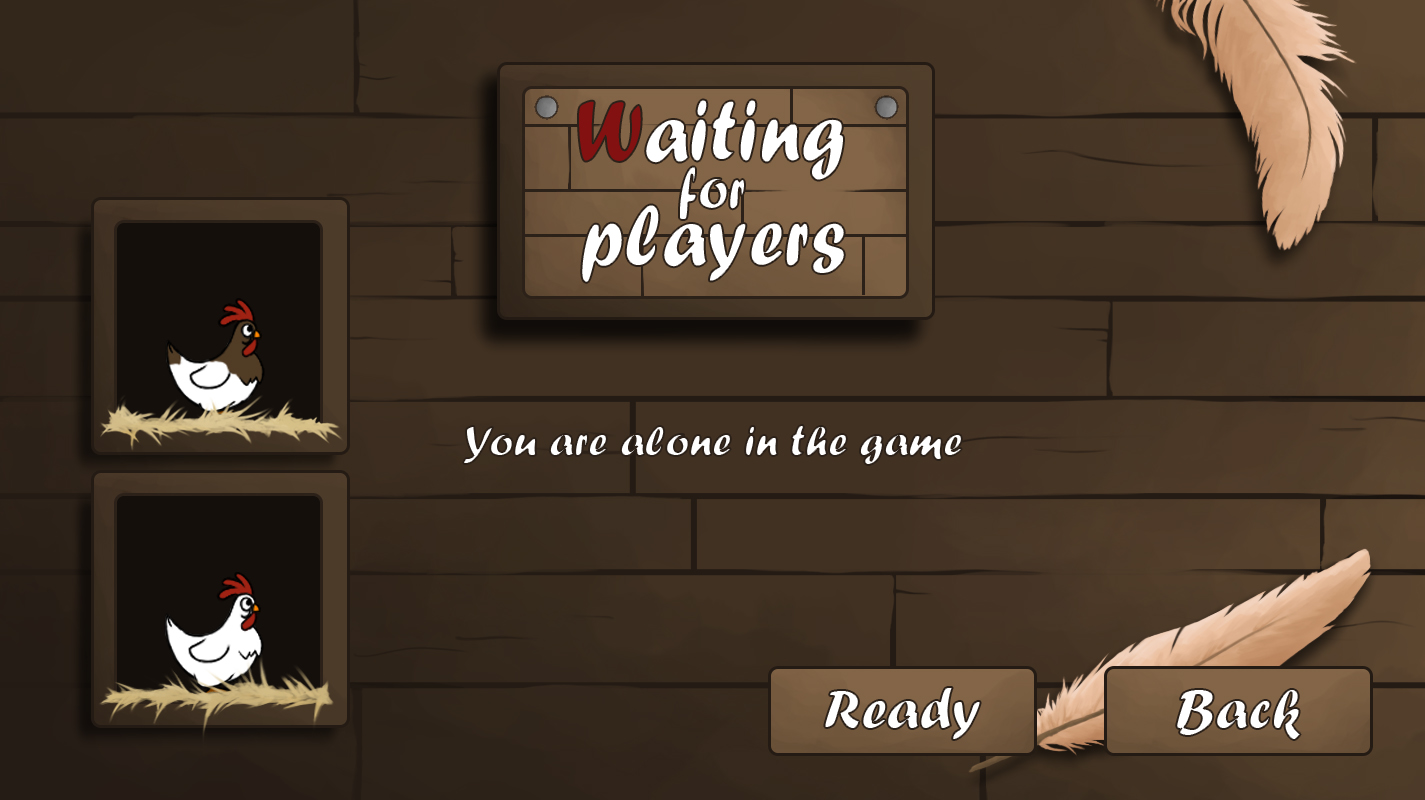
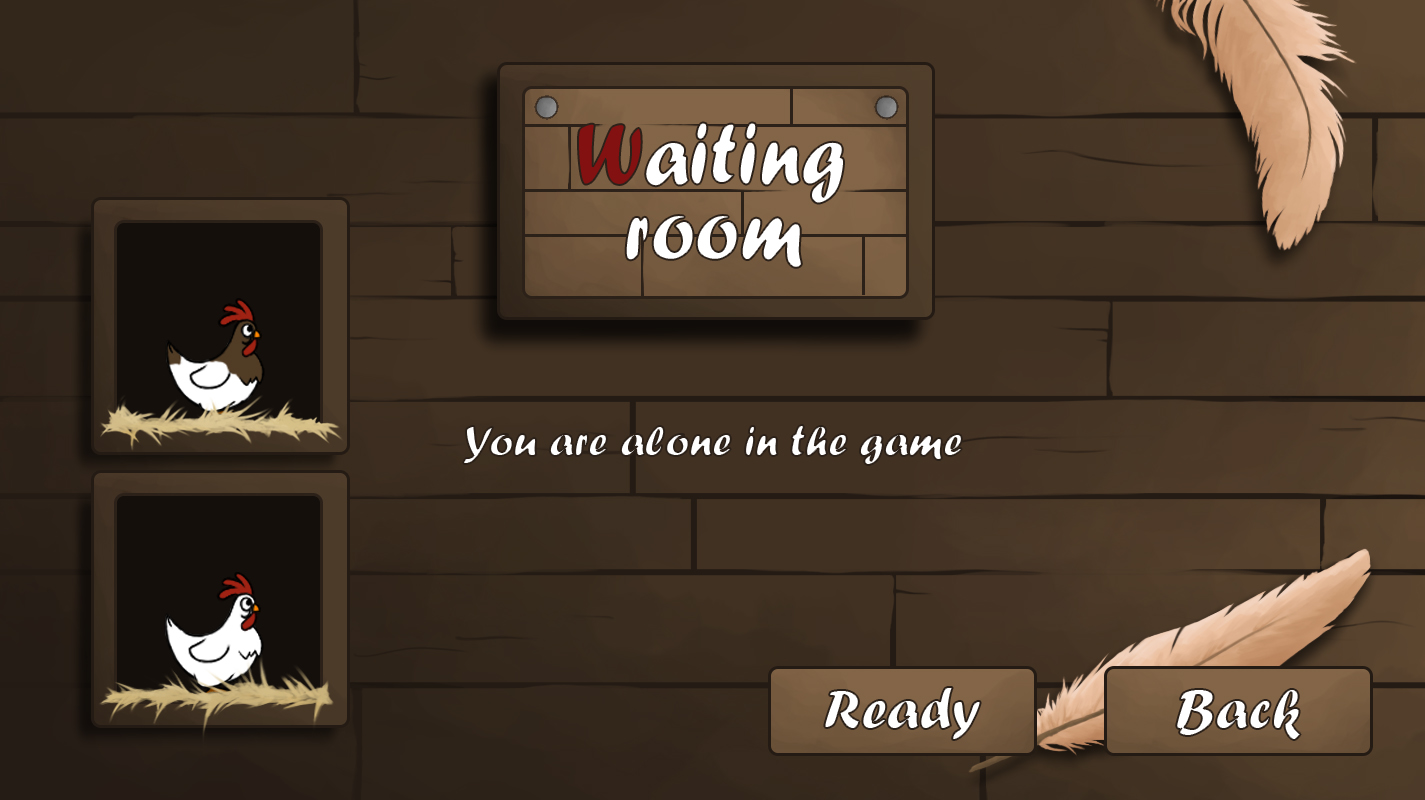
fixes handler

Changed region(s): [[0.4014, 0.125, 0.6175, 0.3438]]

diff --git a/FASE4/FarmAttack/src/main/resources/static/JS/ReadyMenu.js b/FASE4/FarmAttack/src/main/resources/static/JS/ReadyMenu.js
@@ -45,9 +45,9 @@ class ReadyMenu extends Phaser.Scene{
         
         musicGameplay = this.sound.add('levelMusic', config);
         this.clickSound = this.sound.add('clickSound', this.EffectsConfig());
+        
 
-
-		this.background = this.add.image(gameWidth/2,gameHeight/2,"waitingBackground"); 
+		this.background = this.add.image(gameWidth/2,gameHeight/2,"readyBackground"); 
         
 	    //Pre carga Nivel 1
 	    this.preLevel1 = this.add.image(gameWidth/2, gameHeight/2, 'level1');
@@ -55,17 +55,17 @@ class ReadyMenu extends Phaser.Scene{
 	    this.preLevel1.alpha = 0;
 	    
         //PLAY    
-        this.playButton = this.add.image(gameWidth*7/16, gameHeight*8/16, 'playButton');
-        this.playButton.setScale(2.5/3);
-        this.playButtonSel = this.add.image(gameWidth*7/16, gameHeight*8/16, 'playButtonSel');
-        this.playButtonSel.setScale(2.5/3);
+        this.readyButton = this.add.image(gameWidth*7/16, gameHeight*11/16, 'readyButton');
+        this.readyButton.setScale(2.5/3);
+        this.readyButtonSel = this.add.image(gameWidth*7/16, gameHeight*11/16, 'readyButtonSel');
+        this.readyButtonSel.setScale(2.5/3);
         
-        this.playButton.setVisible(false);
-        this.playButtonSel.setVisible(false);
+        this.readyButton.setVisible(false);
+        this.readyButtonSel.setVisible(false);
 
-        this.playButton.on('pointerover', function (pointer) {this.playButtonSel.setVisible(true);}, this);
-        this.playButton.on('pointerout', function (pointer) {this.playButtonSel.setVisible(false);}, this);
-        this.playButton.setInteractive({ useHandCursor: true}).on('pointerdown', () => /*this.PlayGame()*/ connection.send(JSON.stringify({type: "startGame"})));
+        this.readyButton.on('pointerover', function (pointer) {this.readyButtonSel.setVisible(true);}, this);
+        this.readyButton.on('pointerout', function (pointer) {this.readyButtonSel.setVisible(false);}, this);
+        this.readyButton.setInteractive({ useHandCursor: true}).on('pointerdown', () => /*this.PlayGame()*/ connection.send(JSON.stringify({type: "startGame"})));
         
         /*if ((fullLobby == true) ){//}|| (playerId == "1")){
 	    	 console.log("putas todas");
@@ -88,15 +88,15 @@ class ReadyMenu extends Phaser.Scene{
         }
         */
         //BACK
-        this.readyButton = this.add.image(gameWidth*10/16, gameHeight*8/16, 'readyButton');
-        this.readyButton.setScale(2.5/3);
-        this.readyButtonSel = this.add.image(gameWidth*10/16, gameHeight*8/16, 'readyButtonSel');
-        this.readyButtonSel.setScale(2.5/3);
-        this.readyButtonSel.setVisible(false);
+        this.quitButton = this.add.image(gameWidth*10/16, gameHeight*11/16, 'backButton');
+        this.quitButton.setScale(2.5/3);
+        this.quitButtonSel = this.add.image(gameWidth*10/16, gameHeight*11/16, 'backButtonSel');
+        this.quitButtonSel.setScale(2.5/3);
+        this.quitButtonSel.setVisible(false);
 
-        this.readyButton.on('pointerover', function (pointer) {this.readyButtonSel.setVisible(true);}, this);
-        this.readyButton.on('pointerout', function (pointer) {this.readyButtonSel.setVisible(false);}, this);
-        this.readyButton.setInteractive({ useHandCursor: true}).on('pointerdown', () => (connection.send(JSON.stringify({ type: "leave"})), leaved = true)/*this.BackInit()*/);
+        this.quitButton.on('pointerover', function (pointer) {this.quitButtonSel.setVisible(true);}, this);
+        this.quitButton.on('pointerout', function (pointer) {this.quitButtonSel.setVisible(false);}, this);
+        this.quitButton.setInteractive({ useHandCursor: true}).on('pointerdown', () => (connection.send(JSON.stringify({ type: "leave"})), leaved = true)/*this.BackInit()*/);
         
 	    //SKIP BUTTON
 	    this.skipButtonL1 = this.add.image(gameWidth*13.9/16, gameHeight*14.23/16, 'skipButton');
@@ -164,6 +164,11 @@ class ReadyMenu extends Phaser.Scene{
             	//this.PlayGame();
             	//skipTutorial = true;
             }
+            
+            if(data.type == "fullroom"){
+            	console.log("SALA LLENA");
+            	fullroom = true;
+            }
                         
         }// Fin onmessage
 		
@@ -180,28 +185,6 @@ class ReadyMenu extends Phaser.Scene{
 
 
 	update(){
-		//alive();
-		//this.updateUsersConected();
-		
-		/*if (playerId == "2"){
-			console.log("Holaaaaa 2");
-			this.playButton.setVisible(true);
-		}*/
-		
-		if (playerId == 2){
-			//console.log("Holaaaaa 2");
-			this.playButton.setVisible(true);
-		}
-		
-		if (playerId == 1){
-        	
-        	//ACTIVAR FONDO QUE PONE WAITING FOR PLAYERS
-        	
-        }
-        else
-        {
-        	//ACTIVAR FONDO QUE PONE READY TO PLAY!!
-        }
 		
 		if (startGame == true){
 			this.PlayGame();
@@ -226,6 +209,13 @@ class ReadyMenu extends Phaser.Scene{
 		if(namesreceived == true){
 			this.textusers.innerHTML = names;
 			namesreceived = false;
+		}
+		
+		if(fullroom == true)
+		{
+			this.background.setTexture("waitingBackground"); 
+			this.readyButton.setVisible(true);
+			fullroom = false;
 		}
 	}
 
@@ -258,8 +248,8 @@ class ReadyMenu extends Phaser.Scene{
         this.clickSound.play();
 
         //this.backgroundMM.setVisible(false);
-        this.playButton.setVisible(false);
-        this.playButtonSel.setVisible(false);
+        this.quitButton.setVisible(false);
+        this.quitButtonSel.setVisible(false);
         this.readyButton.setVisible(false);
         this.readyButtonSel.setVisible(false);
         //this.creditsButton.setVisible(false);

diff --git a/FASE4/FarmAttack/target/classes/static/JS/ReadyMenu.js b/FASE4/FarmAttack/target/classes/static/JS/ReadyMenu.js
@@ -45,9 +45,9 @@ class ReadyMenu extends Phaser.Scene{
         
         musicGameplay = this.sound.add('levelMusic', config);
         this.clickSound = this.sound.add('clickSound', this.EffectsConfig());
+        
 
-
-		this.background = this.add.image(gameWidth/2,gameHeight/2,"waitingBackground"); 
+		this.background = this.add.image(gameWidth/2,gameHeight/2,"readyBackground"); 
         
 	    //Pre carga Nivel 1
 	    this.preLevel1 = this.add.image(gameWidth/2, gameHeight/2, 'level1');
@@ -55,17 +55,17 @@ class ReadyMenu extends Phaser.Scene{
 	    this.preLevel1.alpha = 0;
 	    
         //PLAY    
-        this.playButton = this.add.image(gameWidth*7/16, gameHeight*8/16, 'playButton');
-        this.playButton.setScale(2.5/3);
-        this.playButtonSel = this.add.image(gameWidth*7/16, gameHeight*8/16, 'playButtonSel');
-        this.playButtonSel.setScale(2.5/3);
+        this.readyButton = this.add.image(gameWidth*7/16, gameHeight*11/16, 'readyButton');
+        this.readyButton.setScale(2.5/3);
+        this.readyButtonSel = this.add.image(gameWidth*7/16, gameHeight*11/16, 'readyButtonSel');
+        this.readyButtonSel.setScale(2.5/3);
         
-        this.playButton.setVisible(false);
-        this.playButtonSel.setVisible(false);
+        this.readyButton.setVisible(false);
+        this.readyButtonSel.setVisible(false);
 
-        this.playButton.on('pointerover', function (pointer) {this.playButtonSel.setVisible(true);}, this);
-        this.playButton.on('pointerout', function (pointer) {this.playButtonSel.setVisible(false);}, this);
-        this.playButton.setInteractive({ useHandCursor: true}).on('pointerdown', () => /*this.PlayGame()*/ connection.send(JSON.stringify({type: "startGame"})));
+        this.readyButton.on('pointerover', function (pointer) {this.readyButtonSel.setVisible(true);}, this);
+        this.readyButton.on('pointerout', function (pointer) {this.readyButtonSel.setVisible(false);}, this);
+        this.readyButton.setInteractive({ useHandCursor: true}).on('pointerdown', () => /*this.PlayGame()*/ connection.send(JSON.stringify({type: "startGame"})));
         
         /*if ((fullLobby == true) ){//}|| (playerId == "1")){
 	    	 console.log("putas todas");
@@ -88,15 +88,15 @@ class ReadyMenu extends Phaser.Scene{
         }
         */
         //BACK
-        this.readyButton = this.add.image(gameWidth*10/16, gameHeight*8/16, 'readyButton');
-        this.readyButton.setScale(2.5/3);
-        this.readyButtonSel = this.add.image(gameWidth*10/16, gameHeight*8/16, 'readyButtonSel');
-        this.readyButtonSel.setScale(2.5/3);
-        this.readyButtonSel.setVisible(false);
+        this.quitButton = this.add.image(gameWidth*10/16, gameHeight*11/16, 'backButton');
+        this.quitButton.setScale(2.5/3);
+        this.quitButtonSel = this.add.image(gameWidth*10/16, gameHeight*11/16, 'backButtonSel');
+        this.quitButtonSel.setScale(2.5/3);
+        this.quitButtonSel.setVisible(false);
 
-        this.readyButton.on('pointerover', function (pointer) {this.readyButtonSel.setVisible(true);}, this);
-        this.readyButton.on('pointerout', function (pointer) {this.readyButtonSel.setVisible(false);}, this);
-        this.readyButton.setInteractive({ useHandCursor: true}).on('pointerdown', () => (connection.send(JSON.stringify({ type: "leave"})), leaved = true)/*this.BackInit()*/);
+        this.quitButton.on('pointerover', function (pointer) {this.quitButtonSel.setVisible(true);}, this);
+        this.quitButton.on('pointerout', function (pointer) {this.quitButtonSel.setVisible(false);}, this);
+        this.quitButton.setInteractive({ useHandCursor: true}).on('pointerdown', () => (connection.send(JSON.stringify({ type: "leave"})), leaved = true)/*this.BackInit()*/);
         
 	    //SKIP BUTTON
 	    this.skipButtonL1 = this.add.image(gameWidth*13.9/16, gameHeight*14.23/16, 'skipButton');
@@ -164,6 +164,11 @@ class ReadyMenu extends Phaser.Scene{
             	//this.PlayGame();
             	//skipTutorial = true;
             }
+            
+            if(data.type == "fullroom"){
+            	console.log("SALA LLENA");
+            	fullroom = true;
+            }
                         
         }// Fin onmessage
 		
@@ -180,28 +185,6 @@ class ReadyMenu extends Phaser.Scene{
 
 
 	update(){
-		//alive();
-		//this.updateUsersConected();
-		
-		/*if (playerId == "2"){
-			console.log("Holaaaaa 2");
-			this.playButton.setVisible(true);
-		}*/
-		
-		if (playerId == 2){
-			//console.log("Holaaaaa 2");
-			this.playButton.setVisible(true);
-		}
-		
-		if (playerId == 1){
-        	
-        	//ACTIVAR FONDO QUE PONE WAITING FOR PLAYERS
-        	
-        }
-        else
-        {
-        	//ACTIVAR FONDO QUE PONE READY TO PLAY!!
-        }
 		
 		if (startGame == true){
 			this.PlayGame();
@@ -226,6 +209,13 @@ class ReadyMenu extends Phaser.Scene{
 		if(namesreceived == true){
 			this.textusers.innerHTML = names;
 			namesreceived = false;
+		}
+		
+		if(fullroom == true)
+		{
+			this.background.setTexture("waitingBackground"); 
+			this.readyButton.setVisible(true);
+			fullroom = false;
 		}
 	}
 
@@ -258,8 +248,8 @@ class ReadyMenu extends Phaser.Scene{
         this.clickSound.play();
 
         //this.backgroundMM.setVisible(false);
-        this.playButton.setVisible(false);
-        this.playButtonSel.setVisible(false);
+        this.quitButton.setVisible(false);
+        this.quitButtonSel.setVisible(false);
         this.readyButton.setVisible(false);
         this.readyButtonSel.setVisible(false);
         //this.creditsButton.setVisible(false);

diff --git a/FASE4/FarmAttack/src/main/resources/static/JS/PreloadMenu.js b/FASE4/FarmAttack/src/main/resources/static/JS/PreloadMenu.js
@@ -77,9 +77,11 @@ class PreloadMenu extends Phaser.Scene{
     this.load.image('tutorialButtonSel', '../ASSETS/Interface/MainMenu/Buttons/tutorial_button_selected.png');
     
     //MULTIPLAYER
+    this.load.image('aloneBackground', '../ASSETS/Interface/WaitingRoomMenu/you_are_alone_background.jpg');
     this.load.image('waitingBackground', '../ASSETS/Interface/WaitingRoomMenu/waiting_room_menu_background.jpg');
-    this.load.image('readyButton', '../ASSETS/Interface/WaitingRoomMenu/ReadyButton/ready_button_selected.png');
-    this.load.image('readyButtonSel', '../ASSETS/Interface/WaitingRoomMenu/ReadyButton/ready_button.png');
+    this.load.image('readyBackground', '../ASSETS/Interface/WaitingRoomMenu/waiting_for_players_background.jpg');
+    this.load.image('readyButtonSel', '../ASSETS/Interface/WaitingRoomMenu/ReadyButton/ready_button_selected.png');
+    this.load.image('readyButton', '../ASSETS/Interface/WaitingRoomMenu/ReadyButton/ready_button.png');
     
     //CHAT
     this.load.image('chatButton', '../ASSETS/Interface/MainMenu/Buttons/chat_button.png');

diff --git a/FASE4/FarmAttack/target/classes/static/JS/PreloadMenu.js b/FASE4/FarmAttack/target/classes/static/JS/PreloadMenu.js
@@ -77,9 +77,11 @@ class PreloadMenu extends Phaser.Scene{
     this.load.image('tutorialButtonSel', '../ASSETS/Interface/MainMenu/Buttons/tutorial_button_selected.png');
     
     //MULTIPLAYER
+    this.load.image('aloneBackground', '../ASSETS/Interface/WaitingRoomMenu/you_are_alone_background.jpg');
     this.load.image('waitingBackground', '../ASSETS/Interface/WaitingRoomMenu/waiting_room_menu_background.jpg');
-    this.load.image('readyButton', '../ASSETS/Interface/WaitingRoomMenu/ReadyButton/ready_button_selected.png');
-    this.load.image('readyButtonSel', '../ASSETS/Interface/WaitingRoomMenu/ReadyButton/ready_button.png');
+    this.load.image('readyBackground', '../ASSETS/Interface/WaitingRoomMenu/waiting_for_players_background.jpg');
+    this.load.image('readyButtonSel', '../ASSETS/Interface/WaitingRoomMenu/ReadyButton/ready_button_selected.png');
+    this.load.image('readyButton', '../ASSETS/Interface/WaitingRoomMenu/ReadyButton/ready_button.png');
     
     //CHAT
     this.load.image('chatButton', '../ASSETS/Interface/MainMenu/Buttons/chat_button.png');

diff --git a/FASE4/FarmAttack/src/main/resources/static/JS/AloneInGame.js b/FASE4/FarmAttack/src/main/resources/static/JS/AloneInGame.js
@@ -12,7 +12,7 @@ class AloneInGame extends Phaser.Scene{
     this.clickSound = this.sound.add('clickSound', this.EffectsConfig());
 
     // 1) BACKGROUND
-    this.backgroundWM = this.add.image(gameWidth/2, gameHeight/2, 'backgroundWM');
+    this.backgroundWM = this.add.image(gameWidth/2, gameHeight/2, 'aloneBackground');
 
     //BOTON SALIR
     this.backButtonWM = this.add.image(gameWidth/2, gameHeight*12.85/16, 'quitButtonWM');

diff --git a/FASE4/FarmAttack/target/classes/static/JS/AloneInGame.js b/FASE4/FarmAttack/target/classes/static/JS/AloneInGame.js
@@ -12,7 +12,7 @@ class AloneInGame extends Phaser.Scene{
     this.clickSound = this.sound.add('clickSound', this.EffectsConfig());
 
     // 1) BACKGROUND
-    this.backgroundWM = this.add.image(gameWidth/2, gameHeight/2, 'backgroundWM');
+    this.backgroundWM = this.add.image(gameWidth/2, gameHeight/2, 'aloneBackground');
 
     //BOTON SALIR
     this.backButtonWM = this.add.image(gameWidth/2, gameHeight*12.85/16, 'quitButtonWM');

diff --git a/FASE4/FarmAttack/src/main/resources/static/JS/GamePlayFo1.js b/FASE4/FarmAttack/src/main/resources/static/JS/GamePlayFo1.js
@@ -604,6 +604,7 @@ if((gamemode == "Online")){
       if (gamemode == "Online")
       {
       	clearInterval(playerUpdate);
+      	connection.close();
       }
       
       

diff --git a/FASE4/FarmAttack/target/classes/static/JS/GamePlayFo1.js b/FASE4/FarmAttack/target/classes/static/JS/GamePlayFo1.js
@@ -604,6 +604,7 @@ if((gamemode == "Online")){
       if (gamemode == "Online")
       {
       	clearInterval(playerUpdate);
+      	connection.close();
       }
       
       

diff --git a/FASE4/FarmAttack/src/main/resources/static/JS/game.js b/FASE4/FarmAttack/src/main/resources/static/JS/game.js
@@ -70,6 +70,7 @@ var leaved = false;
 var playerUpdate;
 var namesreceived =false;
 var names;
+var fullroom = false;
 
 // Tamaño pantalla
 var gameWidth = 1425;

diff --git a/FASE4/FarmAttack/target/classes/static/JS/game.js b/FASE4/FarmAttack/target/classes/static/JS/game.js
@@ -70,6 +70,7 @@ var leaved = false;
 var playerUpdate;
 var namesreceived =false;
 var names;
+var fullroom = false;
 
 // Tamaño pantalla
 var gameWidth = 1425;

diff --git a/FASE4/FarmAttack/src/main/java/es/sidelab/FarmAttack/LevelHandler.java b/FASE4/FarmAttack/src/main/java/es/sidelab/FarmAttack/LevelHandler.java
@@ -60,7 +60,18 @@ public class LevelHandler extends TextWebSocketHandler{
 			newNode.put("lobby", "full");
 			session.sendMessage(new TextMessage(newNode.toString()));
 			System.out.println("Impossible to establish connection. The lobby is full, so the session with id: " + session.getId() + " can't connect.");
-		}		
+		}	
+		
+		if((sessions.get(1) != null && sessions.get(2) != null)) {
+ 			
+ 			ObjectNode responseNodeRoom = mapper.createObjectNode();
+ 			responseNodeRoom.put("type", "fullroom");
+ 			
+ 			sessionTwo.sendMessage(new TextMessage(responseNodeRoom.toString()));
+	 			sessionOne.sendMessage(new TextMessage(responseNodeRoom.toString()));
+     		
+ 		}
+		
 	}
 	
 	//Método que se ejecuta tras cerrar la conexión
@@ -288,6 +299,12 @@ public class LevelHandler extends TextWebSocketHandler{
           	   	 }
          		
         	 break;
+        	 
+         	/*case "joinroom":
+         		
+         		
+         		
+         		break;*/
         	 
          }    
 	 
